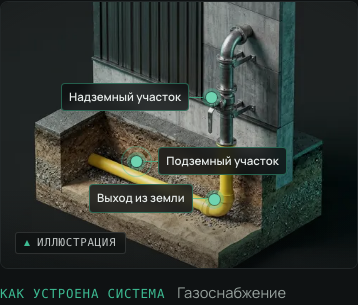
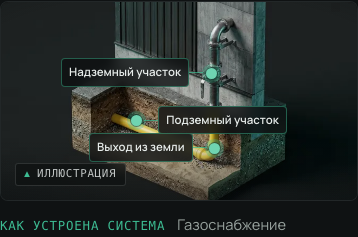
V1: изометрические рендеры; V2: выноски, README

diff --git a/vik-variants/v2-kp/README.md b/vik-variants/v2-kp/README.md
@@ -53,6 +53,19 @@ python3 -m http.server 4402 --directory dist      # http://localhost:4402/
 - **Консультант**: `Consultant.astro` импортируется из vik-site как есть, классы `.vc-*` перекрашены в `global.css`. `public/kb.json` скопирован из vik-site.
 - Предзаполнение формы из адреса (`?direction=`, `?service=`, `?stage=`) работает как в V1: чипы стадий на главной, карточки работ на страницах направлений.
 
+## Проход «pro»: изображения вместо код-схем (02.11)
+
+Заказчику не понравились линейные SVG («артефакты»), поэтому они удалены (`Scheme.astro` и стили `.sc-*`).
+
+- **Направления**: вместо схемы — изометрический разрез системы `public/gen/dir-<slug>` (`SystemFigure.astro`) с HTML-выносками. Точки-маркеры с подписями появляются по очереди при прокрутке и мягко пульсируют. Подписи — служебные термины (`ui.sch`, `ui.hs`), координаты подобраны по каждой картинке. Также лёгкий параллакс, виньетка и пометка «Иллюстрация».
+- **Услуги**: в шапке кинематографичный кадр `svc-<slug>` справа с затемнением под текст, медленным зумом (кроме reduced-motion) и пометкой «Иллюстрация». Нарисованные визуализации заменены типографскими блоками: состав проекта колонками, таймлайн шагов, нумерованный «Состав работ» (земляные, трубопровод, кабель, ИТП). Таблица ответственности, путь документа, стопка папок и квест заявки остались прежними.
+- Изображения подключены через `GenPic.astro`: `<picture>` с webp 768/1376 и jpg, `lazy` везде, кроме шапки.
+- **Шрифт**: Manrope с кириллицей, 400–800, локально из `@fontsource/manrope`, без CDN. Пакет уже был в общей `node_modules`, по сети ничего не ставил. Второй шрифт для заголовков (Unbounded или Inter Tight) офлайн не установлен, поэтому заголовки тоже Manrope 800 с плотным трекингом.
+- **Шапка**: от 768 px выпадающие меню видны всегда. На 768–1080 шапка в два ряда (`--header: 112px`), бургер только до 767 px, без JS работает фолбэк `:target`. У ссылок на системы при наведении стрелка и сдвиг.
+- **Подвал**: лого, слоган, CTA, контакты с `tel:+79916663572`, колонки «Направления / Услуги / Работы / База знаний / Компания», реквизиты и оговорка из `footer.*`, кнопка «Наверх». На телефоне колонки — аккордеон (`<details>`, без JS раскрыты).
+- **Проверка**: сборка без ошибок (32 страницы); 390 / 800 / 1440 без горизонтального скролла и ошибок консоли; ссылки, `src` и адреса консультанта целы. Скриншоты: `screens/pro-*`.
+- **Недочёт**: на 390 выноски разреза мелкие и местами близко друг к другу. Картинка держит пропорции 1376×768, чтобы точки не съезжали.
+
 ## Волна 2: тематические страницы (02.11)
 
 ТЗ: `../ТЗ_ВОЛНА2_ТЕМАТИЧЕСКИЕ_СТРАНИЦЫ.md`, контент: `../../vik-site/CONTENT_CHANGES_2026-11-01.md`. `src/content.mjs` реэкспортирует `index.mjs` целиком (`export *`), поэтому `articles`, `articleByPath`, `knowledgeBase`, `articlePaths`, `extraServices`, `nav.extras/knowledge/articles` доступны без правок. `public/kb.json` скопирован заново: все 25 адресов консультанта, включая `/baza-znaniy/…`, есть в `dist`.
